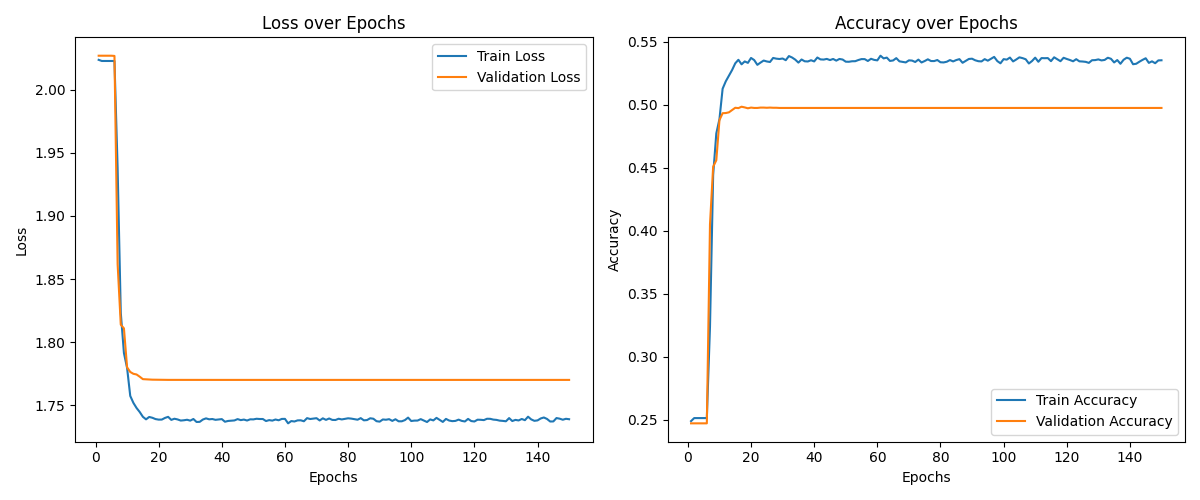
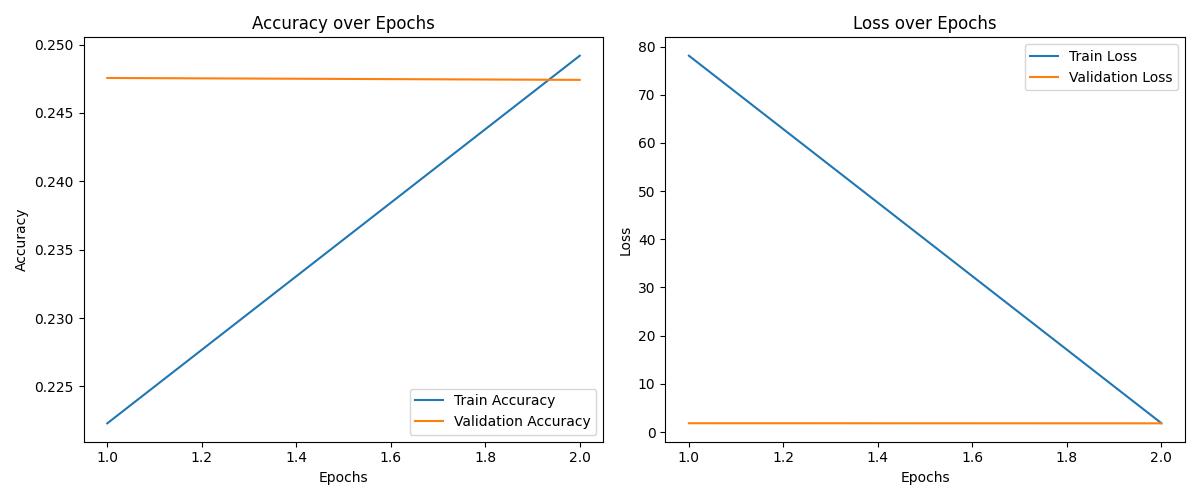
dafd

diff --git a/face_statemetic.py b/face_statemetic.py
@@ -11,7 +11,7 @@ data_dir = './data'  # データセットのディレクトリパス
 batch_size = 512
 num_classes = 8
 input_size = (128, 128)
-num_epochs = 150
+num_epochs = 20
 device = torch.device("cuda" if torch.cuda.is_available() else "cpu")
 
 # 2. データセットの前処理
@@ -20,12 +20,12 @@ transform = {
         transforms.Resize(input_size),
         transforms.RandomHorizontalFlip(),
         transforms.ToTensor(),
-        transforms.Normalize([0.5, 0.5, 0.5], [0.5, 0.5, 0.5])
+        transforms.Normalize([0.5], [0.5])
     ]),
     "val": transforms.Compose([
         transforms.Resize(input_size),
         transforms.ToTensor(),
-        transforms.Normalize([0.5, 0.5, 0.5], [0.5, 0.5, 0.5])
+        transforms.Normalize([0.5], [0.5])
     ]),
 }
 
@@ -56,14 +56,14 @@ model.classifier = nn.Sequential(
     nn.ReLU(),
     nn.Dropout(0.5),  # ドロップアウトを追加
     nn.Linear(4096, num_classes),
-    nn.Softmax(dim=1)  # 出力層にSoftmaxを追加
+    # nn.Softmax(dim=1)  # 出力層にSoftmaxを追加
 )
 model = model.to(device)
 print(model)
 # 5. 損失関数と最適化手法
 criterion = nn.CrossEntropyLoss()
-optimizer = optim.Adam(model.classifier.parameters(), lr=0.001, weight_decay=1e-4)  # L2正則化
-scheduler = optim.lr_scheduler.StepLR(optimizer, step_size=5, gamma=0.1)  # 学習率スケジューリング
+optimizer = optim.Adam(model.classifier.parameters(), lr=0.01, weight_decay=1e-4)  # L2正則化
+scheduler = optim.lr_scheduler.CosineAnnealingLR(optimizer, T_max=num_epochs, eta_min=0)  # 学習率スケジューリング
 
 # 4. 学習と評価関数にスケジューラを組み込み
 def train_model(model, dataloaders, criterion, optimizer, scheduler, num_epochs):
@@ -97,7 +97,6 @@ def train_model(model, dataloaders, criterion, optimizer, scheduler, num_epochs)
                     if phase == 'train':
                         loss.backward()
                         optimizer.step()
-
                 running_loss += loss.item() * inputs.size(0)
                 running_corrects += torch.sum(preds == labels.data)
 
@@ -118,6 +117,8 @@ def train_model(model, dataloaders, criterion, optimizer, scheduler, num_epochs)
                 best_acc = epoch_acc
                 best_model_wts = model.state_dict()
 
+
+
     time_elapsed = time.time() - since
     print(f"Training complete in {time_elapsed // 60:.0f}m {time_elapsed % 60:.0f}s")
     print(f"Best val Acc: {best_acc:.4f}")
@@ -134,7 +135,7 @@ def plot_history(history):
 
     # 損失のグラフ
     plt.figure(figsize=(12, 5))
-    plt.subplot(1, 2, 1)
+    plt.subplot(1, 2, 2)
     plt.plot(epochs, history["train_loss"], label="Train Loss")
     plt.plot(epochs, history["val_loss"], label="Validation Loss")
     plt.xlabel("Epochs")
@@ -143,7 +144,7 @@ def plot_history(history):
     plt.legend()
 
     # 正解率のグラフ
-    plt.subplot(1, 2, 2)
+    plt.subplot(1, 2, 1)
     plt.plot(epochs, history["train_acc"], label="Train Accuracy")
     plt.plot(epochs, history["val_acc"], label="Validation Accuracy")
     plt.xlabel("Epochs")
